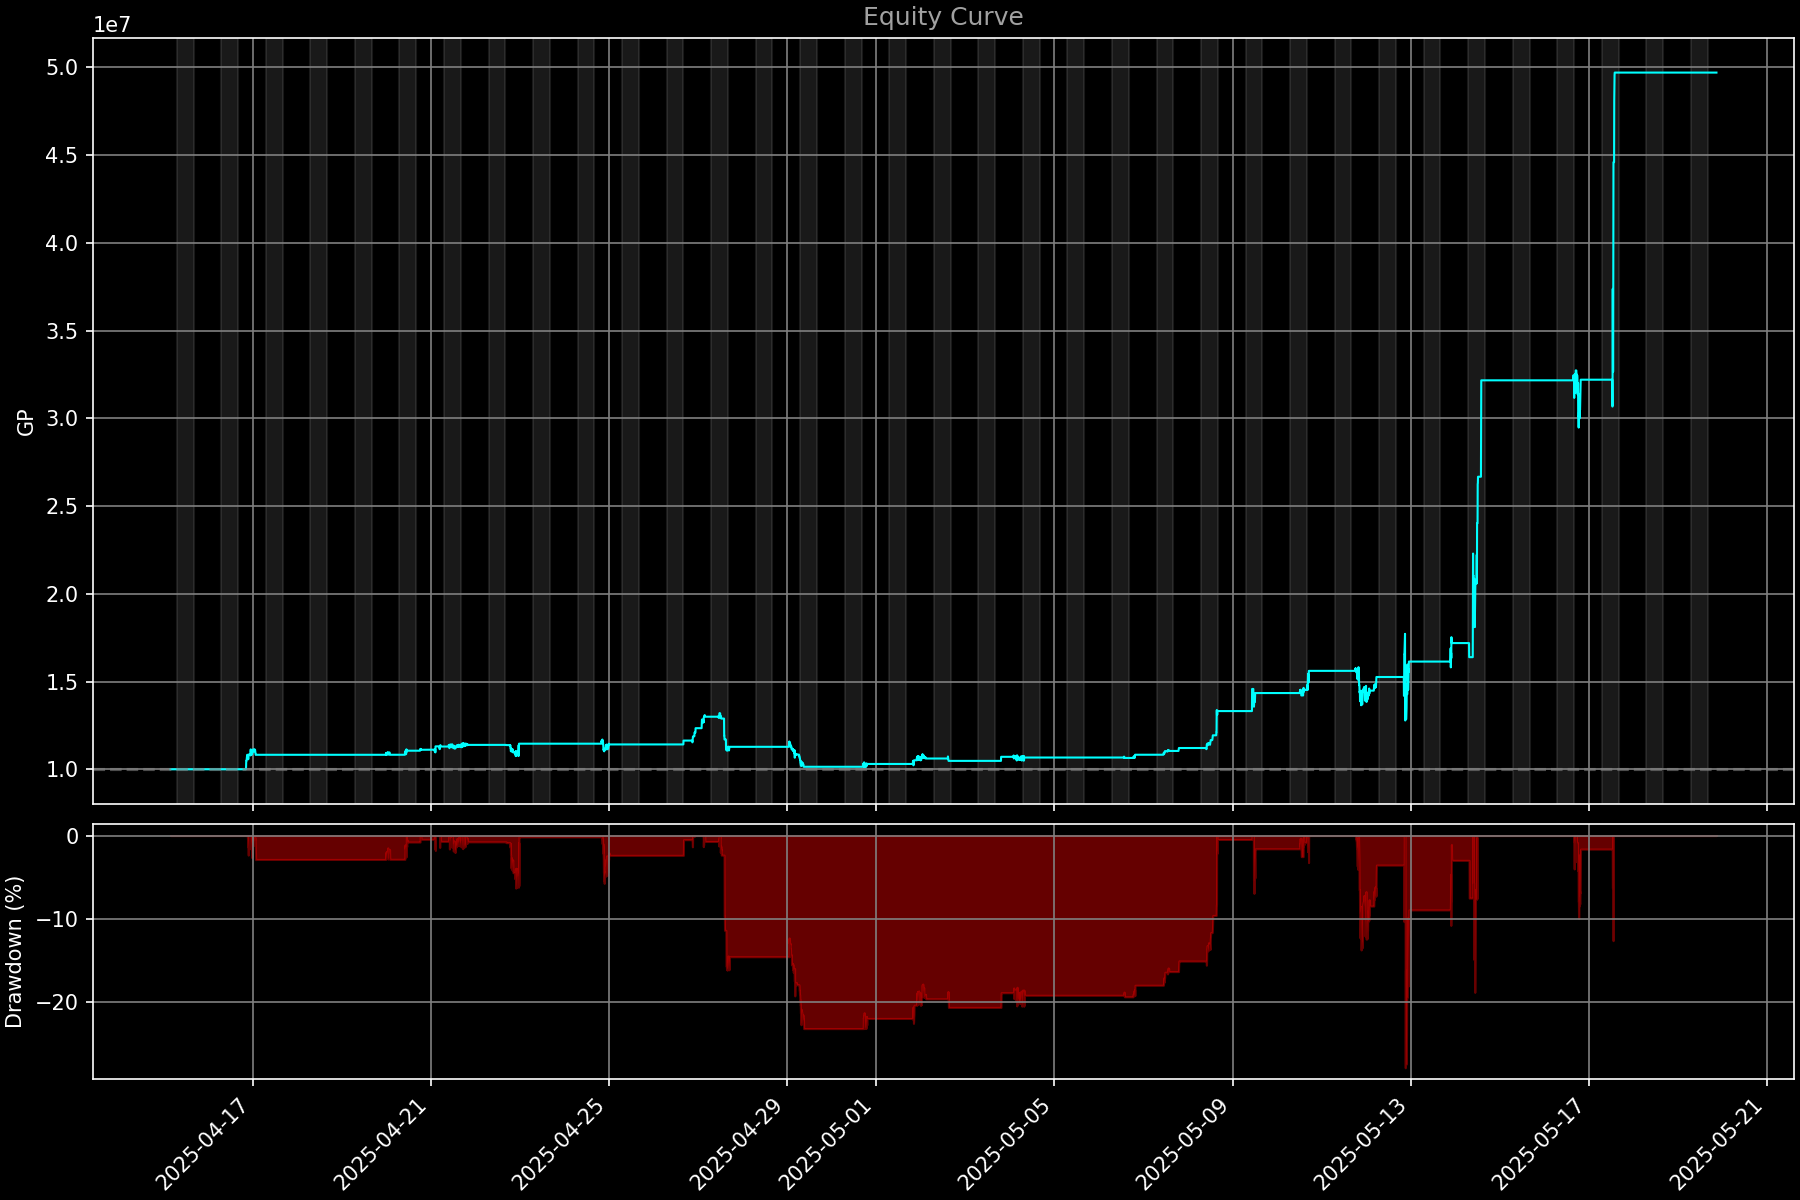
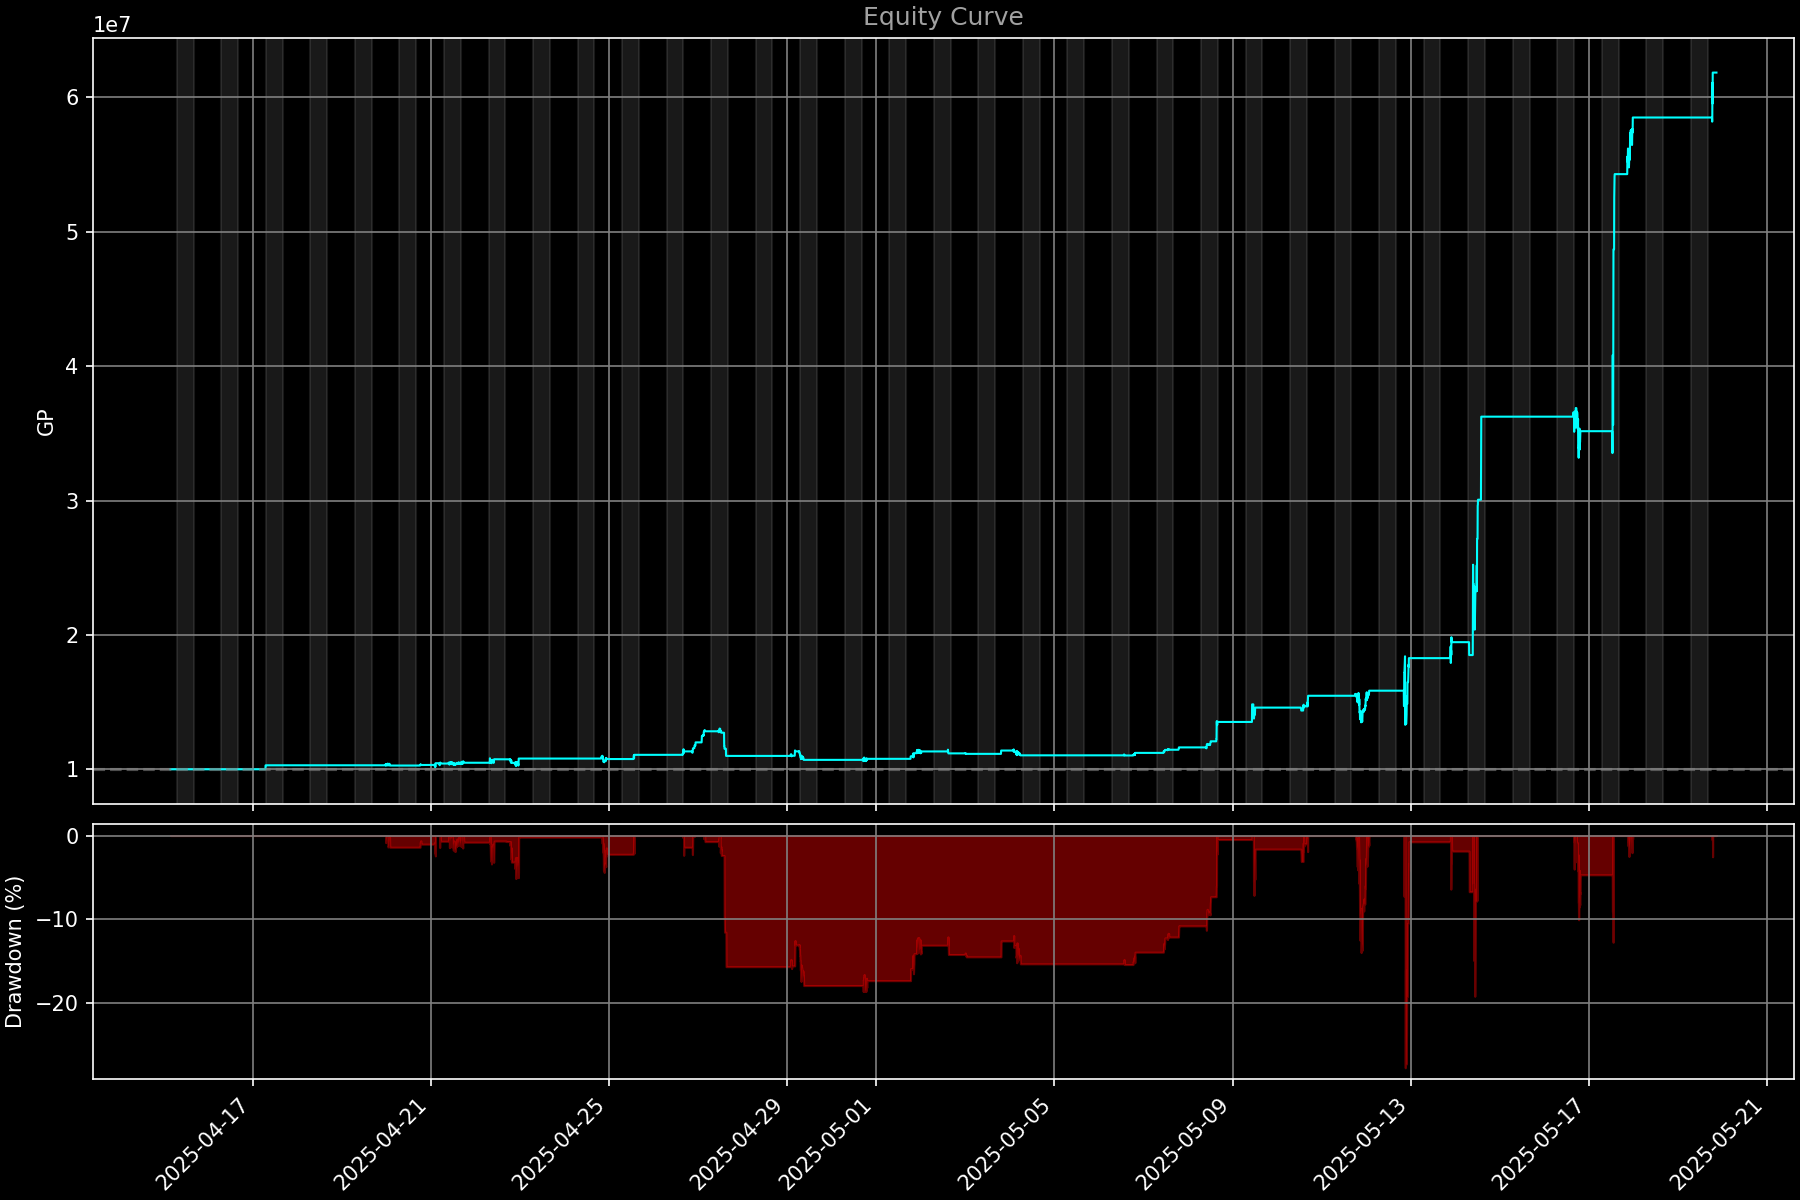
Add Kalman filter option to pairs reversion
Introduce an optional Kalman-filtered equilibrium estimate to the CointegratedGroupReversion strategy. Adds pykalman dependency and new constructor parameters (use_kalman, kalman_obs_cov, kalman_trans_cov). When enabled the spread mean is estimated via a local-level Kalman filter; residuals are used with a rolling window to compute spread std so z-scores remain comparable. Also preserves the previous implementation by adding trading/pairs_reversion_old.py and archives previous plot outputs as *_old.png; updates the new output images. Minor formatting and argument alignment tweaks.

diff --git a/trading/pairs_reversion_old.py b/trading/pairs_reversion_old.py
@@ -11,7 +11,6 @@ import numpy as np
 import pandas as pd
 import matplotlib.pyplot as plt
 from statsmodels.tsa.vector_ar.vecm import coint_johansen
-from pykalman import KalmanFilter
 
 import src.utils.model_tools as tools
 import src.utils.plot_tools as myplot
@@ -73,44 +72,28 @@ class CointegratedGroupReversion(Strategy):
         Hard stop-loss z-score (spread moves further against us).
     capital_pct : float
         Fraction of portfolio equity to deploy when entering a trade.
-    use_kalman : bool
-        If True, estimate the spread's equilibrium level with a Kalman
-        filter (local-level / random-walk state) instead of a rolling
-        simple mean. The rolling window is still used for the std.
-    kalman_obs_cov : float
-        Observation noise variance for the Kalman filter. Larger values
-        make the filtered level smoother / less reactive.
-    kalman_trans_cov : float
-        Transition (process) noise variance. Larger values let the level
-        drift more quickly.
     """
 
     def __init__(
         self,
-        items:            list[int],
-        coint_vector:     np.ndarray,
-        z_window:         int   = 288,     # 1 day of 5-min bars
-        entry_z:          float = -2.0,
-        exit_z:           float = -0.2,
-        stop_z:           float = -3.5,
-        capital_pct:      float = 0.9,
-        use_kalman:       bool  = True,
-        kalman_obs_cov:   float = 1.0,
-        kalman_trans_cov: float = 1e-4,
+        items:         list[int],
+        coint_vector:  np.ndarray,
+        z_window:      int   = 288,     # 1 day of 5-min bars
+        entry_z:       float = -2.0,
+        exit_z:        float = -0.2,
+        stop_z:        float = -3.5,
+        capital_pct:   float = 0.9,
     ):
         if len(items) != len(coint_vector):
             raise ValueError("items and coint_vector must have the same length")
 
-        self.items            = list(items)
-        self.coint_vector     = np.asarray(coint_vector, dtype=float)
-        self.z_window         = z_window
-        self.entry_z          = entry_z
-        self.exit_z           = exit_z
-        self.stop_z           = stop_z
-        self.capital_pct      = capital_pct
-        self.use_kalman       = use_kalman
-        self.kalman_obs_cov   = kalman_obs_cov
-        self.kalman_trans_cov = kalman_trans_cov
+        self.items        = list(items)
+        self.coint_vector = np.asarray(coint_vector, dtype=float)
+        self.z_window     = z_window
+        self.entry_z      = entry_z
+        self.exit_z       = exit_z
+        self.stop_z       = stop_z
+        self.capital_pct  = capital_pct
 
         # Normalised positive weights used for capital allocation on entry.
         # If the leading eigenvector happens to have mostly negative loadings,
@@ -143,30 +126,8 @@ class CointegratedGroupReversion(Strategy):
         spread = group_prices.values @ self.coint_vector
         self._spread = pd.Series(spread, index=price_matrix.index, name='spread')
 
-        if self.use_kalman:
-            # Local-level Kalman filter: the equilibrium spread is modeled
-            # as a random walk, so the filtered state tracks a slowly
-            # drifting mean instead of the fixed-window SMA.
-            kf = KalmanFilter(
-                transition_matrices    = [1.0],
-                observation_matrices   = [1.0],
-                initial_state_mean     = float(self._spread.iloc[0]),
-                initial_state_covariance = 1.0,
-                observation_covariance = self.kalman_obs_cov,
-                transition_covariance  = self.kalman_trans_cov,
-            )
-            state_means, _ = kf.filter(self._spread.values)
-            self._spread_mean = pd.Series(
-                state_means.flatten(), index=self._spread.index, name='spread_mean'
-            )
-        else:
-            self._spread_mean = self._spread.rolling(self.z_window).mean()
-
-        # Residual std (spread minus its filtered/rolling level) over the
-        # same rolling window — this scales the z-score consistently in
-        # both modes.
-        residual = self._spread - self._spread_mean
-        self._spread_std = residual.rolling(self.z_window).std()
+        self._spread_mean = self._spread.rolling(self.z_window).mean()
+        self._spread_std  = self._spread.rolling(self.z_window).std()
 
     def next(self, idx: int, row: pd.Series, portfolio: Portfolio,
              price_matrix: pd.DataFrame, vol_matrix: pd.DataFrame) -> dict[int, tuple[Signal, int]]:
@@ -334,13 +295,13 @@ if __name__ == "__main__":
 
     # Equity curve + drawdown
     result.plot(show=False)
-    plt.gcf().savefig(OUTPUT_DIR / "pairs_reversion_equity.png",
+    plt.gcf().savefig(OUTPUT_DIR / "pairs_reversion_equity_old.png",
                       dpi=150, facecolor='#000000')
     plt.close(plt.gcf())
 
     # Trades on the first leg
     fig_trades, _ = result.plot_trades(items_used[0], show=False)
-    fig_trades.savefig(OUTPUT_DIR / "pairs_reversion_trades.png",
+    fig_trades.savefig(OUTPUT_DIR / "pairs_reversion_trades_old.png",
                        dpi=150, facecolor='#000000')
     plt.close(fig_trades)
 
@@ -361,7 +322,7 @@ if __name__ == "__main__":
     ax.grid()
     ax.legend()
     plt.xticks(rotation=45)
-    fig_z.savefig(OUTPUT_DIR / "pairs_reversion_spread_zscore.png",
+    fig_z.savefig(OUTPUT_DIR / "pairs_reversion_spread_zscore_old.png",
                   dpi=150, facecolor='#000000', bbox_inches='tight')
     plt.close(fig_z)
 
